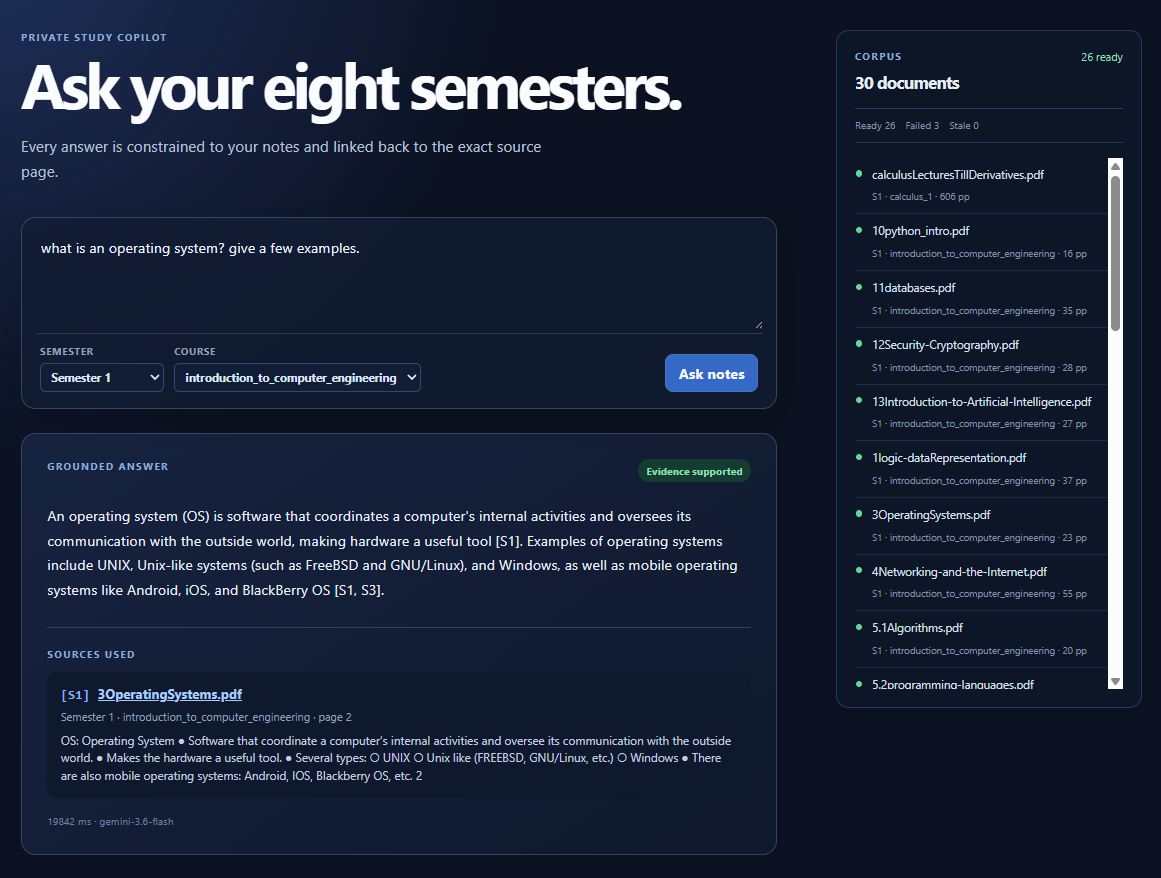
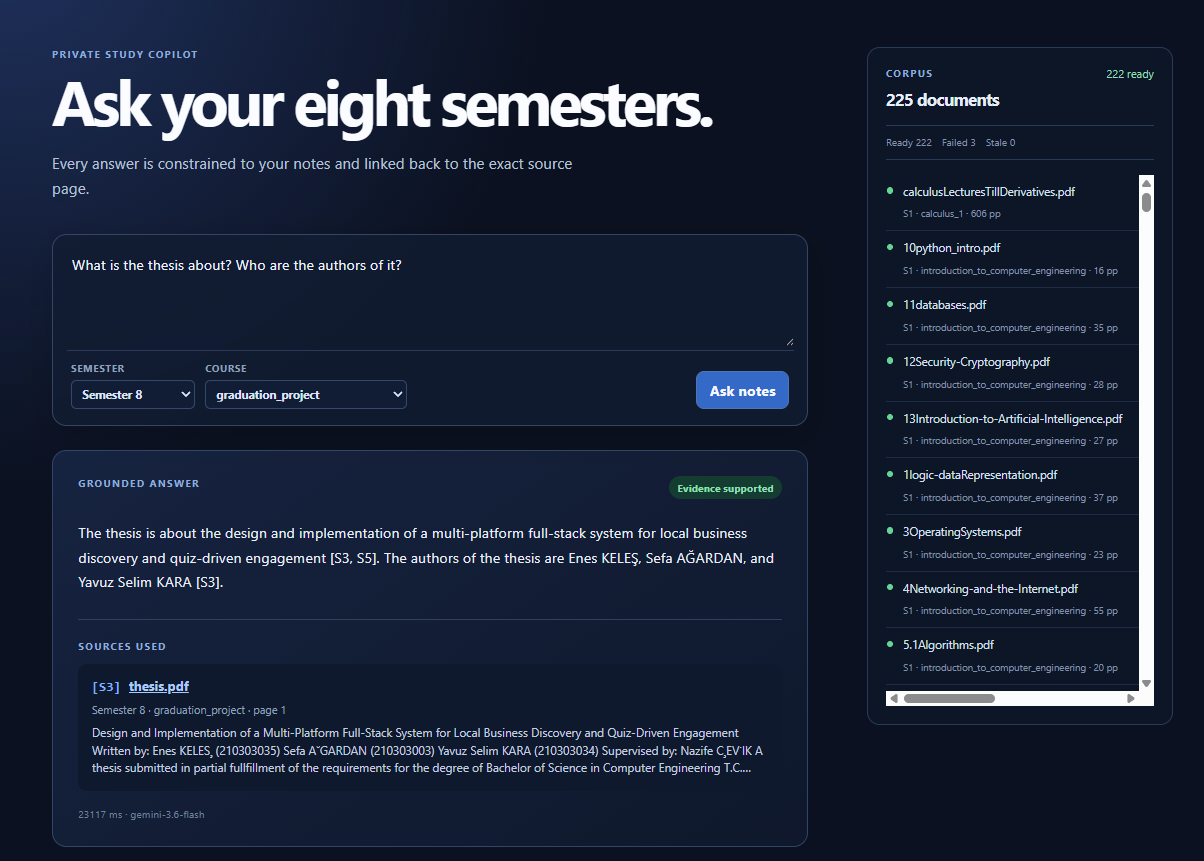
fix: surface retryable Gemini generation outages
Return a safe 503 for temporary provider failures and show a contextual retry action in the chat UI.

diff --git a/frontend/src/styles.css b/frontend/src/styles.css
@@ -36,7 +36,8 @@ a { color: inherit; }
 .scope-row label { color: #91a1bc; display: grid; gap: 5px; font-size: .7rem; font-weight: 700; letter-spacing: .05em; text-transform: uppercase; }
 .scope-row select { min-width: 138px; color: #dce6f7; border: 1px solid #354868; border-radius: 6px; background: #111d34; padding: 7px 8px; font-size: .8rem; text-transform: none; }
 .scope-row button { margin-left: auto; }
-.error-message { margin: 18px 0; color: #ffb6b6; }
+.error-message { margin: 18px 0; padding: 15px 16px; display: flex; align-items: center; justify-content: space-between; gap: 18px; color: #ffd0d0; border: 1px solid #774758; border-radius: 12px; background: rgba(86, 32, 48, .28); }
+.error-message strong { display: block; font-size: .87rem; }.error-message p { margin: 5px 0 0; color: #dcb6bf; font-size: .82rem; line-height: 1.45; }.error-message button { flex: 0 0 auto; border: 1px solid #a85c70; border-radius: 7px; color: #ffe4e9; background: transparent; padding: 7px 10px; font-size: .78rem; font-weight: 700; }
 .indexing-hint { margin: 13px 3px 0; color: #aab8ce; font-size: .83rem; }
 .indexing-hint strong { color: #d8e6ff; }
 
@@ -50,4 +51,4 @@ a { color: inherit; }
 .library-panel { align-self: start; padding: 20px; border: 1px solid #293a59; border-radius: 14px; background: rgba(13, 23, 42, .72); }.library-heading { display: flex; align-items: start; justify-content: space-between; gap: 12px; }.library-heading h2 { margin: 0; font-size: 1.15rem; letter-spacing: -.03em; }.ready-count { color: #90deb4; font-size: .76rem; }.status-summary { display: flex; gap: 11px; margin: 16px 0; padding: 11px 0; border-bottom: 1px solid #293a59; border-top: 1px solid #293a59; color: #8492aa; font-size: .7rem; }.document-list { max-height: 590px; overflow-y: auto; }.document-row { display: grid; grid-template-columns: 8px 1fr; gap: 10px; padding: 10px 1px; border-bottom: 1px solid #1e2c45; }.document-row p { margin: 0 0 3px; color: #d7e0ef; font-size: .8rem; overflow: hidden; white-space: nowrap; text-overflow: ellipsis; }.document-row span:not(.status-dot) { color: #8290a8; font-size: .67rem; }.status-dot { width: 7px; height: 7px; margin-top: 4px; border-radius: 99px; background: #6e7b91; }.status-ready { background: #65d595; }.status-failed { background: #ff7878; }.status-processing { background: #e4ba5d; }.empty-state { color: #8492aa; font-size: .82rem; line-height: 1.5; }
 
 @media (max-width: 980px) { .workspace { grid-template-columns: 1fr; padding-top: 48px; }.chat-panel { max-width: none; }.library-panel { order: 2; }.document-list { max-height: 300px; } }
-@media (max-width: 640px) { .topbar { padding: 0 20px; }.workspace { padding: 38px 20px; }.job-status { display: none; }.scope-row { align-items: stretch; flex-wrap: wrap; }.scope-row label { flex: 1 1 130px; }.scope-row button { margin-left: 0; width: 100%; }.hero h1 { font-size: 2.7rem; } }
+@media (max-width: 640px) { .topbar { padding: 0 20px; }.workspace { padding: 38px 20px; }.job-status { display: none; }.scope-row { align-items: stretch; flex-wrap: wrap; }.scope-row label { flex: 1 1 130px; }.scope-row button { margin-left: 0; width: 100%; }.error-message { align-items: start; flex-direction: column; }.error-message button { width: 100%; }.hero h1 { font-size: 2.7rem; } }

diff --git a/frontend/src/features/chat/ChatPanel.tsx b/frontend/src/features/chat/ChatPanel.tsx
@@ -29,6 +29,10 @@ export function ChatPanel({ documents }: ChatPanelProps) {
 
   async function submit(event: FormEvent<HTMLFormElement>) {
     event.preventDefault();
+    await askQuestionFromNotes();
+  }
+
+  async function askQuestionFromNotes() {
     const trimmedQuestion = question.trim();
     if (!trimmedQuestion || isAsking) {
       return;
@@ -44,7 +48,7 @@ export function ChatPanel({ documents }: ChatPanelProps) {
       });
       setResponse(answer);
     } catch (caught) {
-      setError(caught instanceof ApiError ? caught.message : "The answer request failed.");
+      setError(messageForChatError(caught));
     } finally {
       setIsAsking(false);
     }
@@ -107,7 +111,17 @@ export function ChatPanel({ documents }: ChatPanelProps) {
         </p>
       )}
 
-      {error && <p className="error-message" role="alert">{error}</p>}
+      {error && (
+        <section className="error-message" role="alert">
+          <div>
+            <strong>Answer generation is temporarily unavailable</strong>
+            <p>{error}</p>
+          </div>
+          <button onClick={() => void askQuestionFromNotes()} disabled={isAsking} type="button">
+            Try again
+          </button>
+        </section>
+      )}
       {response && (
         <section className="answer-card" aria-live="polite">
           <div className="answer-heading">
@@ -123,4 +137,14 @@ export function ChatPanel({ documents }: ChatPanelProps) {
       )}
     </main>
   );
+}
+
+function messageForChatError(error: unknown): string {
+  if (error instanceof ApiError && error.status === 503) {
+    return "Gemini is experiencing high demand. Your notes are indexed and safe; wait a moment, then retry.";
+  }
+  if (error instanceof ApiError) {
+    return error.message;
+  }
+  return "The answer request failed before a response was generated. Please try again.";
 }

diff --git a/backend/src/lecture_notes_rag/generation/gemini.py b/backend/src/lecture_notes_rag/generation/gemini.py
@@ -8,7 +8,7 @@ from typing import Any
 
 from google import genai
 from google.genai import types
-from google.genai.errors import ClientError
+from google.genai.errors import APIError, ClientError
 
 from lecture_notes_rag.core.settings import Settings
 from lecture_notes_rag.domain.schemas import GeminiAnswerDraft
@@ -30,6 +30,10 @@ class GeminiRateLimitError(RuntimeError):
     def __init__(self, retry_after_seconds: float | None, message: str):
         super().__init__(message)
         self.retry_after_seconds = retry_after_seconds
+
+
+class GeminiGenerationUnavailableError(RuntimeError):
+    """Gemini could not generate an answer due to a temporary provider outage."""
 
 
 @dataclass(frozen=True)
@@ -99,19 +103,22 @@ Question:
 Evidence:
 {evidence}
 """
-        response = self._client.models.generate_content(
-            model=self._settings.gemini_generation_model,
-            contents=prompt,
-            config=types.GenerateContentConfig(
-                response_mime_type="application/json",
-                temperature=0.1,
-                # This application never passes callable tools to Gemini. The
-                # SDK currently enables AFC by default, which produces a
-                # misleading warning for direct generate_content calls and
-                # wraps this simple one-request operation unnecessarily.
-                automatic_function_calling=types.AutomaticFunctionCallingConfig(disable=True),
-            ),
-        )
+        try:
+            response = self._client.models.generate_content(
+                model=self._settings.gemini_generation_model,
+                contents=prompt,
+                config=types.GenerateContentConfig(
+                    response_mime_type="application/json",
+                    temperature=0.1,
+                    # This application never passes callable tools to Gemini. The
+                    # SDK currently enables AFC by default, which produces a
+                    # misleading warning for direct generate_content calls and
+                    # wraps this simple one-request operation unnecessarily.
+                    automatic_function_calling=types.AutomaticFunctionCallingConfig(disable=True),
+                ),
+            )
+        except APIError as error:
+            _raise_generation_unavailable(error)
         raw_text = getattr(response, "text", None)
         if not raw_text:
             raise RuntimeError("Gemini returned no answer text")
@@ -180,3 +187,13 @@ def _raise_rate_limit_error(error: ClientError) -> None:
     delay_match = _RETRY_DELAY.search(message)
     retry_after = float(delay_match.group(1)) if delay_match else None
     raise GeminiRateLimitError(retry_after, message) from error
+
+
+def _raise_generation_unavailable(error: APIError) -> None:
+    """Convert temporary upstream generation failures into a safe API response."""
+    if error.code not in {429, 500, 502, 503, 504}:
+        raise error
+    raise GeminiGenerationUnavailableError(
+        "Gemini is temporarily busy due to provider demand. Your retrieved notes are intact; "
+        "please try again in a moment."
+    ) from error

diff --git a/backend/src/lecture_notes_rag/api/routes/chat.py b/backend/src/lecture_notes_rag/api/routes/chat.py
@@ -20,7 +20,7 @@ from lecture_notes_rag.domain.schemas import (
     SearchResponse,
 )
 from lecture_notes_rag.generation.embeddings import EmbeddingProvider
-from lecture_notes_rag.generation.gemini import GeminiProvider
+from lecture_notes_rag.generation.gemini import GeminiGenerationUnavailableError, GeminiProvider
 from lecture_notes_rag.persistence.database import get_session
 from lecture_notes_rag.retrieval.hybrid import RetrievalService, search_hit
 from lecture_notes_rag.services.chat import ChatService
@@ -54,6 +54,8 @@ def chat(
         return ChatService(session, embedding_provider, answer_provider, settings).answer(payload)
     except LookupError as error:
         raise HTTPException(status_code=404, detail=str(error)) from error
+    except GeminiGenerationUnavailableError as error:
+        raise HTTPException(status_code=503, detail=str(error)) from error
 
 
 @router.post("/chat/stream")
@@ -71,6 +73,8 @@ def stream_chat(
         ).answer(payload)
     except LookupError as error:
         raise HTTPException(status_code=404, detail=str(error)) from error
+    except GeminiGenerationUnavailableError as error:
+        raise HTTPException(status_code=503, detail=str(error)) from error
 
     def events() -> Iterator[str]:
         for word in response.answer.split(" "):

diff --git a/backend/tests/unit/test_gemini_errors.py b/backend/tests/unit/test_gemini_errors.py
@@ -1,7 +1,12 @@
 import pytest
-from google.genai.errors import ClientError
+from google.genai.errors import ClientError, ServerError
 
-from lecture_notes_rag.generation.gemini import GeminiRateLimitError, _raise_rate_limit_error
+from lecture_notes_rag.generation.gemini import (
+    GeminiGenerationUnavailableError,
+    GeminiRateLimitError,
+    _raise_generation_unavailable,
+    _raise_rate_limit_error,
+)
 
 
 def test_google_client_error_is_classified_using_sdk_code_attribute() -> None:
@@ -27,3 +32,19 @@ def test_non_quota_google_client_error_is_not_reclassified() -> None:
 
     with pytest.raises(ClientError):
         _raise_rate_limit_error(error)
+
+
+def test_temporary_gemini_generation_outage_is_safe_and_retryable() -> None:
+    error = ServerError(
+        503,
+        {
+            "error": {
+                "code": 503,
+                "message": "This model is currently experiencing high demand.",
+                "status": "UNAVAILABLE",
+            }
+        },
+    )
+
+    with pytest.raises(GeminiGenerationUnavailableError, match="temporarily busy"):
+        _raise_generation_unavailable(error)
